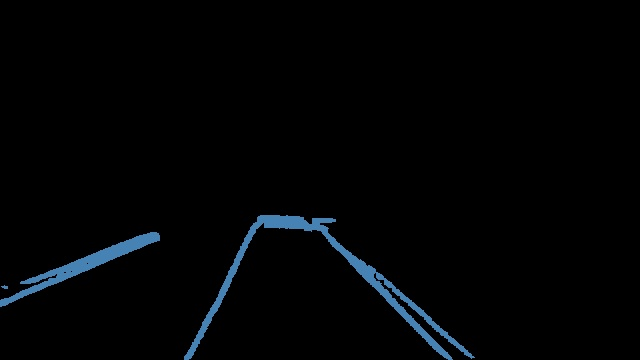
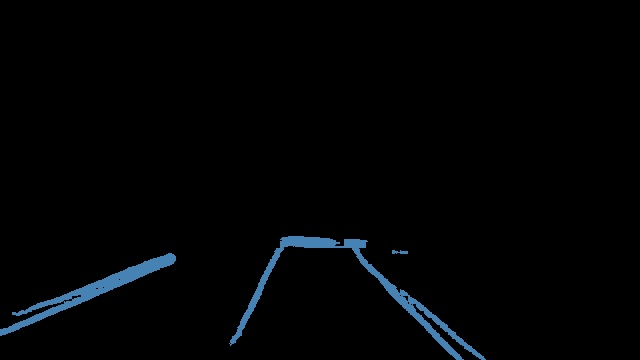
Improved size correction

diff --git a/src/road_recognition/flow_handler.cpp b/src/road_recognition/flow_handler.cpp
@@ -10,9 +10,15 @@ FlowHandler::FlowHandler(Reader &reader, size_t min_count, size_t min_variance)
       lower_bound_(Constant::ROI_border) {
   frame_ = reader_.Read();
 
-  double ROI_compression = GetCompressionToFitRectOnScreen(
-      cv::Size(Constant::default_ROI_width, Constant::default_ROI_height),
-      cv::Size(frame_.cols, frame_.rows));
+  correction_ = static_cast<double>(Constant::apollo_img_width) /
+                static_cast<double>(frame_.cols);
+
+  double ROI_compression = std::max(
+      correction_,
+      GetCompressionToFitRectOnScreen(
+          cv::Size(Constant::default_ROI_width, Constant::default_ROI_height),
+          cv::Size(frame_.cols, frame_.rows)));
+
   ROI_.width = static_cast<int>(
       static_cast<double>(Constant::default_ROI_width) / ROI_compression);
   ROI_.height = static_cast<int>(
@@ -24,8 +30,16 @@ FlowHandler::FlowHandler(Reader &reader, size_t min_count, size_t min_variance)
 
   default_ROI_position_ = cv::Point(ROI_.x, ROI_.y);
   cv::cvtColor(frame_, frame_gray_, cv::COLOR_BGR2GRAY);
-  cv::goodFeaturesToTrack(frame_gray_, points_, 250, 0.01, 20, cv::Mat(), 3,
-                          false, 0.04);
+  int init_num_of_points = std::max(
+      static_cast<double>(Constant::default_init_num_of_points) / correction_,
+      150.0);
+  int min_dist_between_good_points = std::max(
+      static_cast<double>(Constant::default_min_dist_between_good_points) /
+          correction_,
+      15.0);
+  cv::goodFeaturesToTrack(frame_gray_, points_, init_num_of_points, 0.01,
+                          min_dist_between_good_points, cv::Mat(), 3, false,
+                          0.04);
 }
 
 void FlowHandler::SetRoi(const cv::Rect &ROI) { ROI_ = ROI; }
@@ -58,17 +72,27 @@ bool FlowHandler::Next() {
       cv::TermCriteria::COUNT + cv::TermCriteria::EPS, 30, 0.03);
 
   std::vector<cv::Point2f> next_points;
-
+  int window_size = static_cast<int>(std::max(
+      static_cast<double>(Constant::default_window_size) / correction_, 16.0));
   cv::calcOpticalFlowPyrLK(frame_gray_, next_frame_gray, points_, next_points,
-                           status, err, cv::Size(21, 21), 3, criteria);
+                           status, err, cv::Size(window_size, window_size),
+                           Constant::default_num_pyramid_levels, criteria);
 
   frame_ = next_frame;
   frame_gray_ = next_frame_gray;
 
   size_t count = std::count(status.begin(), status.end(), 1);
   if (count < min_count_) {
-    cv::goodFeaturesToTrack(frame_gray_, points_, 250, 0.01, 20, cv::Mat(), 3,
-                            false, 0.04);
+    int init_num_of_points = std::max(
+        static_cast<double>(Constant::default_init_num_of_points) / correction_,
+        150.0);
+    int min_dist_between_good_points = std::max(
+        static_cast<double>(Constant::default_min_dist_between_good_points) /
+            correction_,
+        15.0);
+    cv::goodFeaturesToTrack(frame_gray_, points_, init_num_of_points, 0.01,
+                            min_dist_between_good_points, cv::Mat(), 3, false,
+                            0.04);
     std::cout << "Tracking points refreshed!" << std::endl;
     return true;
   }

diff --git a/src/road_recognition/manager.cpp b/src/road_recognition/manager.cpp
@@ -152,7 +152,7 @@ void FPSManagerDRR::Process() {
 }
 
 MetricsManager::MetricsManager(std::string path_to_txt)
-    : path_to_txt_(path_to_txt){}
+    : path_to_txt_(path_to_txt) {}
 
 double MetricsManager::EvaluateIoU(const cv::Mat &marking_res,
                                    const cv::Mat &ground_truth) {
@@ -238,7 +238,8 @@ double MetricsManager::EvaluatePrecision(const cv::Mat &marking_res,
   for (int y = 0; y < marking_res.rows; y++) {
     for (int x = 0; x < marking_res.cols; x++) {
       bool is_marking_res_black = IsBlackPixel(marking_res.at<cv::Vec3b>(y, x));
-      bool is_ground_truth_black = IsBlackPixel(ground_truth.at<cv::Vec3b>(y, x));
+      bool is_ground_truth_black =
+          IsBlackPixel(ground_truth.at<cv::Vec3b>(y, x));
 
       if (!is_marking_res_black) {
         if (!is_ground_truth_black) {
@@ -254,7 +255,7 @@ double MetricsManager::EvaluatePrecision(const cv::Mat &marking_res,
     return 1.0;
   }
 
-  return static_cast<double>(true_positive) / 
+  return static_cast<double>(true_positive) /
          static_cast<double>(true_positive + false_positive);
 }
 

diff --git a/src/road_recognition/manager.hpp b/src/road_recognition/manager.hpp
@@ -65,7 +65,8 @@ private:
   double EvaluateIoU(const cv::Mat &marking_res, const cv::Mat &ground_truth);
   double EvaluateAccuracy(const cv::Mat &marking_res,
                           const cv::Mat &ground_truth);
-  double EvaluatePrecision(const cv::Mat &marking_res, const cv::Mat &ground_truth);
+  double EvaluatePrecision(const cv::Mat &marking_res,
+                           const cv::Mat &ground_truth);
   void PrintHistogram(const std::vector<double> &data, int num_bins);
 
   std::string path_to_txt_;
@@ -75,6 +76,7 @@ class RoiManager {
 public:
   RoiManager(Reader &reader);
   void Process();
+
 private:
   Reader &reader_;
   FlowHandler handler_;

diff --git a/src/road_recognition/constant.hpp b/src/road_recognition/constant.hpp
@@ -25,4 +25,10 @@ constexpr double variance_smoothing_factor = 0.8;
 
 constexpr size_t default_screen_width = 1920;
 constexpr size_t default_screen_height = 1080;
+
+constexpr size_t default_window_size = 21;
+constexpr size_t default_num_pyramid_levels = 3;
+
+constexpr size_t default_init_num_of_points = 250;
+constexpr size_t default_min_dist_between_good_points = 20;
 } // namespace Constant

diff --git a/src/road_recognition/flow_handler.hpp b/src/road_recognition/flow_handler.hpp
@@ -31,6 +31,7 @@ private:
   size_t num_without_variance_ = 0;
 
   std::vector<cv::Point2f> points_;
+  double correction_ = 1;
 };
 double GetCompressionToFitRectOnScreen(cv::Size rect_size,
                                        cv::Size screen_size);
